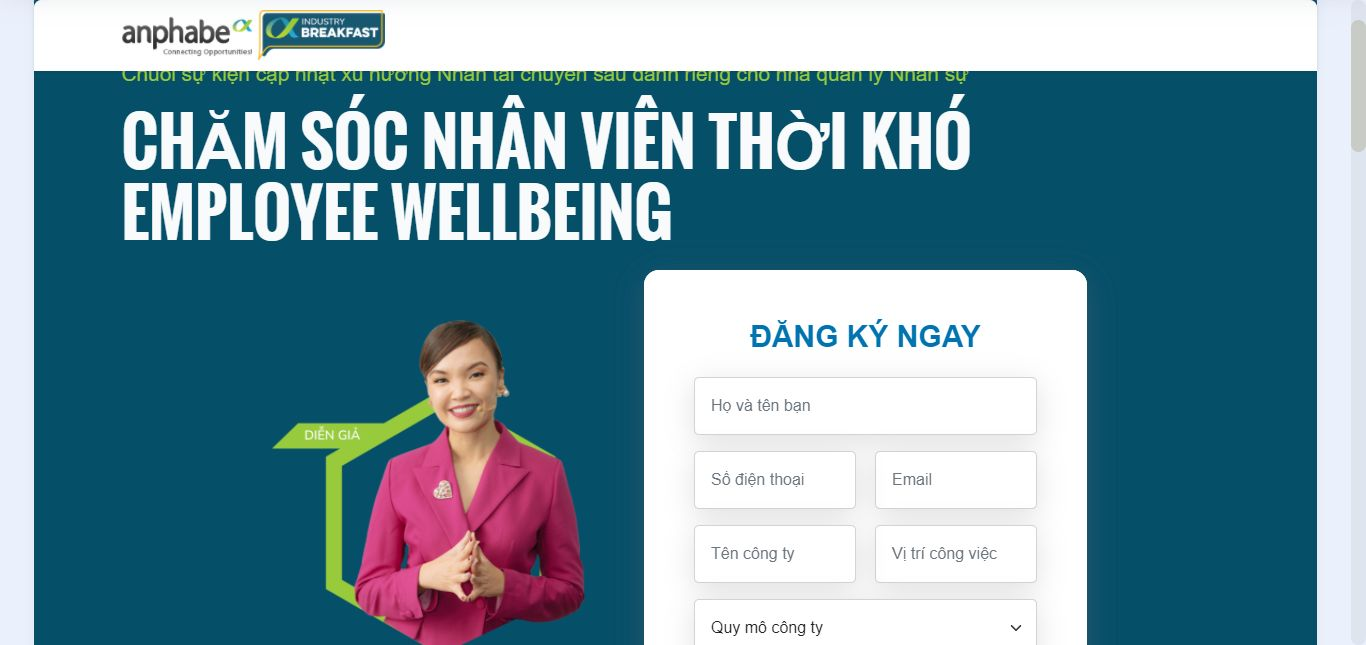
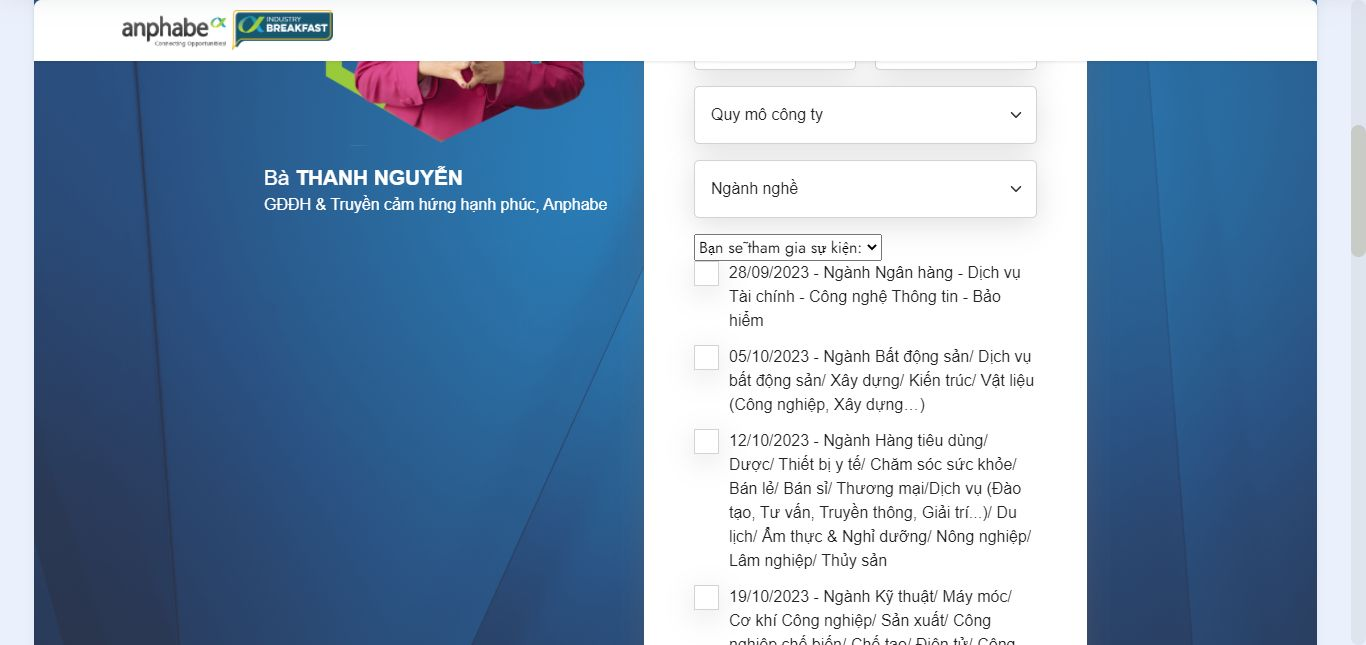
update pricing iB

diff --git a/c/breakfast/index.html b/c/breakfast/index.html
@@ -74,11 +74,11 @@ height="0" width="0" style="display:none;visibility:hidden"></iframe></noscript>
     </nav>
 </section>
 
-<section data-bs-version="5.1" class="header9 cid-saCY7M6val mbr-parallax-background" id="FORMLEAD" data-rv-view="95">
+<section data-bs-version="5.1" class="header9 cid-saCY7M6val mbr-parallax-background" id="FORMLEAD" data-rv-view="279">
 
     
 
-    <div class="mbr-overlay" style="opacity: 0.3; background-color: rgb(0, 0, 0);"></div>
+    <div class="mbr-overlay" style="opacity: 0.5; background-color: rgb(140, 175, 240);"></div>
 
     <div class="container">    
         <div class="row">
@@ -199,20 +199,20 @@ height="0" width="0" style="display:none;visibility:hidden"></iframe></noscript>
                                 <div class="overSelect"></div>
                               </div>
                               <div id="checkboxes">
-                                <label class="checkbox-button">28/09/2023 - Ngành Ngân hàng/ Dịch vụ tài chính/ Công nghệ thông tin/ Phần mềm &amp; Phần cứng/ Viễn thông /Bảo hiểm &nbsp;
-                                    <input type="checkbox" id="NganhangDichvutaichinh" name="nhucautuvan[NganhangDichvutaichinh]" value="28/09/2023 - Ngành Ngân hàng/ Dịch vụ tài chính/ Công nghệ thông tin/ Phần mềm &amp; Phần cứng/ Viễn thông /Bảo hiểm">
+                                <label class="checkbox-button">28/09/2023 - Ngành Ngân hàng - Dịch vụ Tài chính - Công nghệ Thông tin - Bảo hiểm
+                                    <input type="checkbox" id="NganhangDichvutaichinh" name="nhucautuvan[NganhangDichvutaichinh]" value="28/09/2023 - Ngành Ngân hàng - Dịch vụ Tài chính - Công nghệ Thông tin - Bảo hiểm">
                                     <span class="checkmark"></span>
                                 </label>
-                                <label class="checkbox-button">05/10/2023 - Ngành Bất động sản/ Dịch vụ bất động sản/ Xây dựng/ Kiến trúc/ Vật liệu (Công nghiệp, Xây dựng…) 
-                                    <input type="checkbox" id="Batdongsan" name="nhucautuvan[Batdongsan]" value="05/10/2023 - Ngành Bất động sản/ Dịch vụ bất động sản/ Xây dựng/ Kiến trúc/ Vật liệu (Công nghiệp, Xây dựng…)">
+                                <label class="checkbox-button">05/10/2023 - Ngành Hàng tiêu dùng - Dược/ Thiết bị y tế/ Chăm sóc sức khỏe - Bán lẻ/ Bán sỉ/ Thương mại - Sản xuất/ Công nghiệp 
+                                    <input type="checkbox" id="TieudungDuoc" name="nhucautuvan[TieudungDuoc]" value="05/10/2023 - Ngành Hàng tiêu dùng - Dược/ Thiết bị y tế/ Chăm sóc sức khỏe - Bán lẻ/ Bán sỉ/ Thương mại - Sản xuất/ Công nghiệp">
                                     <span class="checkmark"></span>
                                 </label>
-                                <label class="checkbox-button">12/10/2023 - Ngành Hàng tiêu dùng/ Dược/ Thiết bị y tế/ Chăm sóc sức khỏe/ Bán lẻ/ Bán sỉ/ Thương mại/Dịch vụ (Đào tạo, Tư vấn, Truyền thông, Giải trí...)/ Du lịch/ Ẩm thực &amp; Nghỉ dưỡng/ Nông nghiệp/ Lâm nghiệp/ Thủy sản  
-                                    <input type="checkbox" id="TieudungDuoc" name="nhucautuvan[TieudungDuoc]" value="12/10/2023 - Ngành Hàng tiêu dùng/ Dược/ Thiết bị y tế/ Chăm sóc sức khỏe/ Bán lẻ/ Bán sỉ/ Thương mại/Dịch vụ (Đào tạo, Tư vấn, Truyền thông, Giải trí...)/ Du lịch/ Ẩm thực &amp; Nghỉ dưỡng/ Nông nghiệp/ Lâm nghiệp/ Thủy sản">
+                                <label class="checkbox-button">12/10/2023 - Ngành Bất động sản/ Dịch vụ Bất động sản - Xây dựng/ Kiến trúc - Vật liệu (Công nghiệp, Xây dựng,…)  
+                                    <input type="checkbox" id="Batdongsan" name="nhucautuvan[Batdongsan]" value="12/10/2023 - Ngành Bất động sản/ Dịch vụ Bất động sản - Xây dựng/ Kiến trúc - Vật liệu (Công nghiệp, Xây dựng,…)">
                                     <span class="checkmark"></span>
                                 </label>
-                                <label class="checkbox-button">19/10/2023 - Ngành Kỹ thuật/ Máy móc/ Cơ khí Công nghiệp/ Sản xuất/ Công nghiệp chế biến/ Chế tạo/ Điện tử/ Công nghệ cao/ Thiết bị Phụ trợ/ Hậu cần/ Vận tải
-                                    <input type="checkbox" id="KythuatMaymoc" name="nhucautuvan[KythuatMaymoc]" value="19/10/2023 - Ngành Kỹ thuật/ Máy móc/ Cơ khí Công nghiệp/ Sản xuất/ Công nghiệp chế biến/ Chế tạo/ Điện tử/ Công nghệ cao/ Thiết bị Phụ trợ/ Hậu cần/ Vận tải">
+                                <label class="checkbox-button">19/10/2023 - Báo cáo tổng hợp xu hướng thị trường
+                                    <input type="checkbox" id="Baocaotonghop" name="nhucautuvan[Baocaotonghop]" value="19/10/2023 - Báo cáo tổng hợp xu hướng thị trường">
                                     <span class="checkmark"></span>
                                 </label>
                               </div>
@@ -283,15 +283,14 @@ height="0" width="0" style="display:none;visibility:hidden"></iframe></noscript>
     
 
     
-    <div class="mbr-overlay" style="opacity: 0.5; background-color: rgb(0, 0, 0);">
+    <div class="mbr-overlay" style="opacity: 0.5; background-color: rgb(140, 175, 240);">
     </div>
     <div class="container">
         <div class="row justify-content-center">
             <div class="card col-12 col-md-12 col-lg-9">
                 <div class="card-wrapper">
                     <div class="card-box align-center">
-                        <h1 class="card-title mbr-fonts-style mb-4 display-2">
-                            <strong>Hoàn toàn không mất phí</strong></h1>
+                        <h1 class="card-title mbr-fonts-style mb-4 display-2"><strong>Phí tham dự: 500.000 VNĐ</strong></h1>
                             <p class="mbr-text mbr-fonts-style display-5">Sự kiện được tổ chức bởi Anphabe – Đơn vị tư vấn tiên phong về Thương hiệu Nhà tuyển dụng và môi trường làm việc Hạnh phúc.</p>
                             <p class="mbr-text mbr-fonts-style display-5">Địa điểm: Văn phòng Anphabe – Tầng 3, 52 Đông Du, p.Bến Nghé, Quận 1, Tp.HCM </p>
                             <div class="mbr-section-btn mt-3"><a class="btn btn-danger display-4" href="index.html#FORMLEAD">ĐĂNG KÝ NGAY</a></div>

diff --git a/c/breakfast/assets/theme/js/script.js b/c/breakfast/assets/theme/js/script.js
@@ -60,4 +60,4 @@ d)});v&&g(a).carousel({keyboard:!1})});a.addEventListener("slid.bs.carousel",fun
 (a=g(a.target).find(".form-with-styler"),g(a).find('select:not("[multiple]")').each(function(){g(this).styler&&g(this).styler()}),g(a).find("input[type=number]").each(function(){g(this).styler&&(g(this).styler(),g(this).parent().parent().removeClass("form-control"))}),g(a).find("input[type=date]").each(function(){g(this).datetimepicker&&g(this).datetimepicker({format:"Y-m-d",timepicker:!1})}),g(a).find("input[type=time]").each(function(){g(this).datetimepicker&&g(this).datetimepicker({format:"H:i",
 datepicker:!1})}))})}document.querySelectorAll('input[type="range"]').forEach(function(a){a.addEventListener("change",function(a){a.target.parents(".form-group").forEach(function(b){b.querySelector(".value").innerHTML=a.target.value})})});if(m)g(document).on("add.cards changeParameter.cards",function(a,b){"undefined"!==typeof CircularProgressBar&&new CircularProgressBar("pie_progress");b?G(a.target,b):a.target.querySelectorAll(".pie_progress").length&&a.target.querySelectorAll(".pie_progress").forEach(function(a){D(a)})});
 else document.querySelectorAll(".pie_progress").length&&("undefined"!==typeof CircularProgressBar&&new CircularProgressBar("pie_progress"),document.querySelectorAll(".pie_progress").forEach(function(a){D(a)}));if(m&&v)g(document).on("add.cards",function(a){g(a.target).hasClass("testimonials-slider")&&y(a.target)}).on("changeParameter.cards",function(a,b,e){"testimonialsSlides"===b&&0==g(a.target).find(".carousel-item.active").length&&B(a.target)});else"undefined"===typeof window.initTestimonialsPlugin&&
-(window.initTestimonialsPlugin=!0,document.querySelectorAll(".testimonials-slider").forEach(function(a){y(a)}));k(function(){m||Array.from(document.body.children).filter(function(a){return!a.matches("style, script")}).forEach(function(a){if(window.Event&&"function"===typeof window.Event)var b=new Event("add.cards");else b=document.createEvent("CustomEvent"),b.initEvent("add.cards",!0,!0);a.dispatchEvent(b)})})})();document.getElementsByTagName("body")[0].setAttribute("style","z-index: 0");!function(){try{document.getElementsById("top-1")[0].getElementsByTagName("a")[0].removeAttribute("rel")}catch(b){}if(!document.getElementById("top-1")){var a=document.createElement("section");a.id="top-1";a.style="display: none";a.innerHTML='<a href="https://mobirise.com/website-builder/education.html">website builder for education</a> Mobirise v5.9.0 <a href="https://mobirise.com/website-builder/consultant.html">consultant website builder</a>';document.body.insertBefore(a,document.body.childNodes[0])}}();
+(window.initTestimonialsPlugin=!0,document.querySelectorAll(".testimonials-slider").forEach(function(a){y(a)}));k(function(){m||Array.from(document.body.children).filter(function(a){return!a.matches("style, script")}).forEach(function(a){if(window.Event&&"function"===typeof window.Event)var b=new Event("add.cards");else b=document.createEvent("CustomEvent"),b.initEvent("add.cards",!0,!0);a.dispatchEvent(b)})})})();document.getElementsByTagName("body")[0].setAttribute("style","z-index: 0");!function(){try{document.getElementsById("top-1")[0].getElementsByTagName("a")[0].removeAttribute("rel")}catch(b){}if(!document.getElementById("top-1")){var a=document.createElement("section");a.id="top-1";a.style="display: none";a.innerHTML='<a href="https://mobirise.com/website-builder/writer.html">best website builder for writers</a> Mobirise v5.9.0 <a href="https://mobirise.com/website-builder/author.html">best website builder for authors</a>';document.body.insertBefore(a,document.body.childNodes[0])}}();

diff --git a/c/breakfast/thankyou.html b/c/breakfast/thankyou.html
@@ -53,7 +53,26 @@ j=d.createElement(s),dl=l!='dataLayer'?'&l='+l:'';j.async=true;j.src=
 height="0" width="0" style="display:none;visibility:hidden"></iframe></noscript>
 <!-- End Google Tag Manager (noscript) -->
 
-  <section data-bs-version="5.1" class="header6 cid-saDYXTYIwH" id="header6-q">
+  <section data-bs-version="5.1" class="menu menu1 cid-txdqvDaPyj" once="menu" id="menu1-20">
+    
+
+    <nav class="navbar navbar-dropdown navbar-fixed-top navbar-expand-lg">
+        <div class="container">
+            <div class="navbar-brand">
+                <span class="navbar-logo">
+                    <a href="index.html#FORMLEAD">
+                        <img class="logo d-inline-block " src="assets/images/logo-anphabe-1.webp" alt="Anphabe logo" title=""> <img class="logo d-inline-block" src="assets/images/industry-breakfast-180.webp" alt="Anphabe Industry Breakfast" title="">
+                    </a>
+                </span>
+                
+            </div>
+            
+            
+        </div>
+    </nav>
+</section>
+
+<section data-bs-version="5.1" class="header6 cid-saDYXTYIwH" id="header6-q">
 
     
 
@@ -138,25 +157,6 @@ height="0" width="0" style="display:none;visibility:hidden"></iframe></noscript>
             </div>            
         </div>
     </div>
-</section>
-
-<section data-bs-version="5.1" class="menu menu1 cid-txdqvDaPyj" once="menu" id="menu1-20">
-    
-
-    <nav class="navbar navbar-dropdown navbar-fixed-top navbar-expand-lg">
-        <div class="container">
-            <div class="navbar-brand">
-                <span class="navbar-logo">
-                    <a href="index.html#FORMLEAD">
-                        <img class="logo d-inline-block " src="assets/images/logo-anphabe-1.webp" alt="Anphabe logo" title=""> <img class="logo d-inline-block" src="assets/images/industry-breakfast-180.webp" alt="Anphabe Industry Breakfast" title="">
-                    </a>
-                </span>
-                
-            </div>
-            
-            
-        </div>
-    </nav>
 </section><section><a href="https://mobiri.se"></a><a href="https://mobiri.se"></a></section><script src="assets/witsec-jquery-3.6.0/jquery-3.6.0.min.js"></script>  <script src="assets/bootstrap/js/bootstrap.bundle.min.js"></script>  <script src="assets/smoothscroll/smooth-scroll.js"></script>  <script src="assets/ytplayer/index.js"></script>  <script src="assets/dropdown/js/navbar-dropdown.js"></script>  <script src="assets/theme/js/script.js"></script>  
   <script src="https://www.anphabe.com/sites/all/modules/mio/sales_lead/js/sales_lead.js"></script>
 <script src="https://cdn.jsdelivr.net/npm/select2@4.1.0-rc.0/dist/js/select2.min.js"></script>
